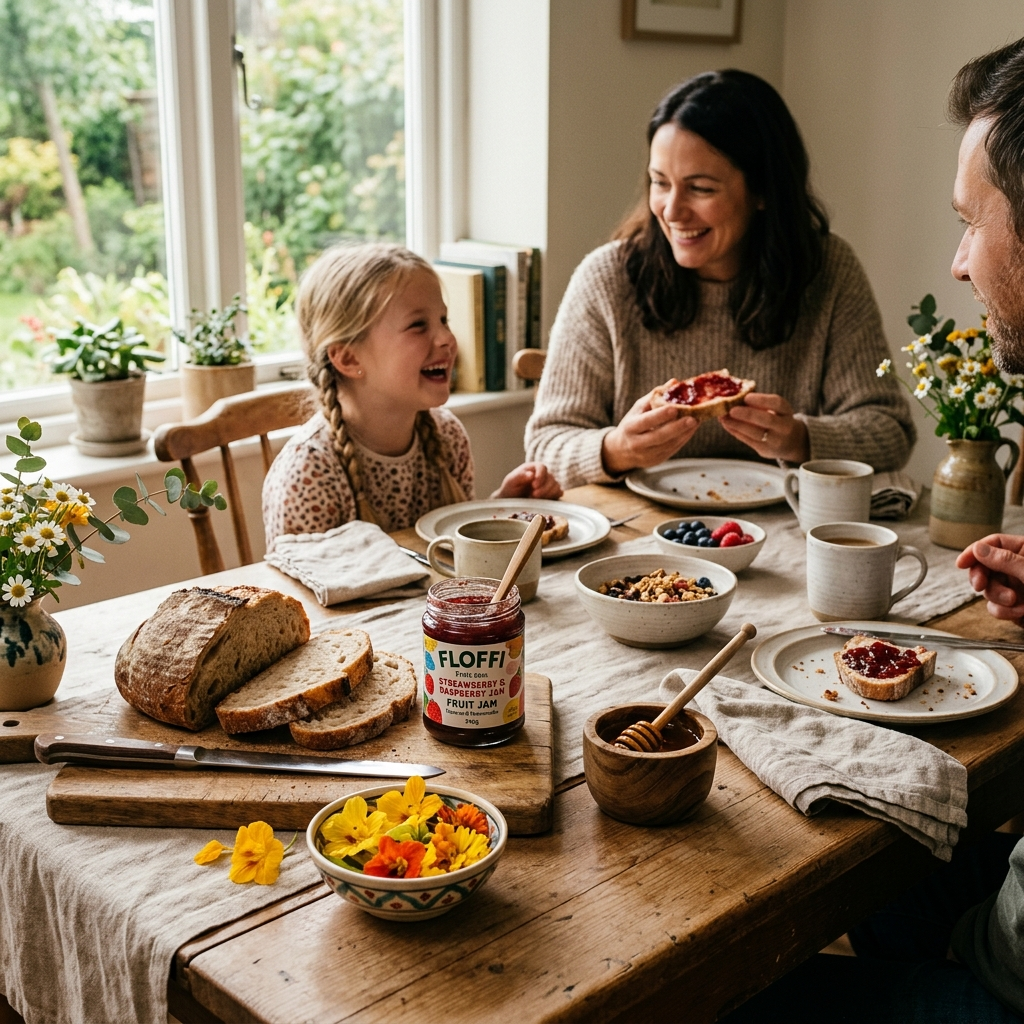
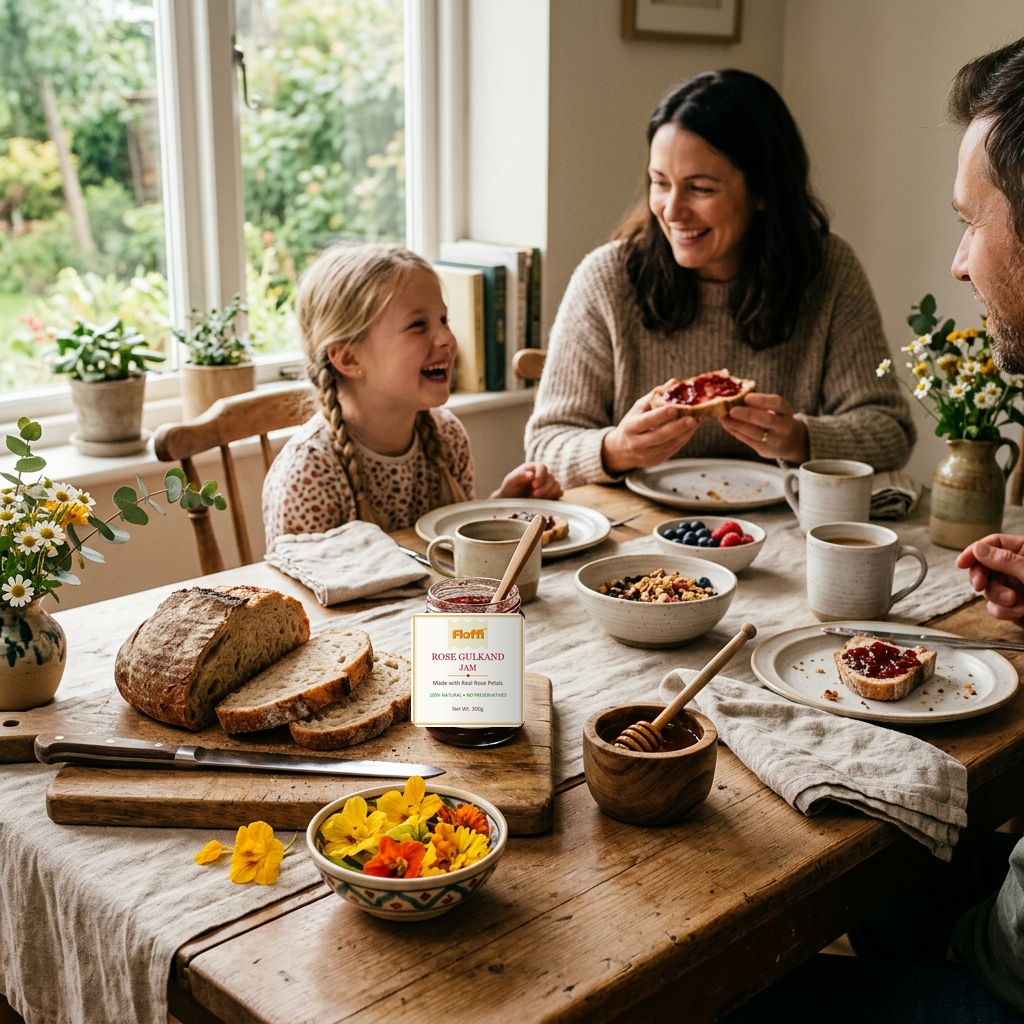
Remove mission and vision statements from About Us and update jar in background to original Floffi product

Changed region(s): [[0.375, 0.5938, 0.5312, 0.7188]]

diff --git a/src/components/OurStorySection.tsx b/src/components/OurStorySection.tsx
@@ -58,33 +58,9 @@ export default function OurStorySection({ onNavigate }: OurStorySectionProps) {
             <p style={{ color: '#555', fontSize: '1rem', lineHeight: '1.8', marginBottom: '20px', textAlign: 'left' }}>
               Our products are made using natural ingredients without artificial colors or artificial preservatives, delivering authentic taste with a fresh and wholesome experience. From breakfast spreads to snack pairings and everyday cooking, Flowfi products are designed to fit naturally into modern lifestyles.
             </p>
-            <p style={{ color: '#555', fontSize: '1rem', lineHeight: '1.8', marginBottom: '32px', textAlign: 'left' }}>
+            <p style={{ color: '#555', fontSize: '1rem', lineHeight: '1.8', marginBottom: '0px', textAlign: 'left' }}>
               With a focus economical consumers, floral-based foods a regular part of every kitchen through supermarkets, hypermarkets, and local stores.
             </p>
-
-            {/* Divider */}
-            <hr style={{ border: 'none', borderTop: '1px solid rgba(62,39,35,0.12)', margin: '36px 0' }} />
-
-            {/* Mission & Vision Grid */}
-            <div style={{ display: 'grid', gridTemplateColumns: 'repeat(auto-fit, minmax(320px, 1fr))', gap: '36px', textAlign: 'left' }}>
-              <div>
-                <h4 className="font-heading font-extrabold text-earthy-brown" style={{ fontSize: '1.35rem', marginBottom: '14px', textTransform: 'uppercase', letterSpacing: '0.05em', color: 'var(--hibiscus-red)' }}>
-                  Mission Statement
-                </h4>
-                <p style={{ color: '#555', fontSize: '0.95rem', lineHeight: '1.75' }}>
-                  To make natural floral-based foods a part of everyday life by creating healthy, flavorful, and affordable jams, spreads, sauces, and chutneys without artificial colors or preservatives for the next generation of consumers.
-                </p>
-              </div>
-
-              <div>
-                <h4 className="font-heading font-extrabold text-earthy-brown" style={{ fontSize: '1.35rem', marginBottom: '14px', textTransform: 'uppercase', letterSpacing: '0.05em', color: 'var(--hibiscus-red)' }}>
-                  Vision Statement
-                </h4>
-                <p style={{ color: '#555', fontSize: '0.95rem', lineHeight: '1.75' }}>
-                  To become a trusted household food brand by making floral-based products available across supermarkets, hypermarkets, and local stores, bringing natural and innovative flavors to every home.
-                </p>
-              </div>
-            </div>
           </motion.div>
         </div>
       </div>

diff --git a/src/components/StoryPage.tsx b/src/components/StoryPage.tsx
@@ -73,27 +73,6 @@ export default function StoryPage() {
                 With a focus economical consumers, floral-based foods a regular part of every kitchen through supermarkets, hypermarkets, and local stores.
               </p>
             </div>
-
-            {/* Mission & Vision Statements */}
-            <div className="grid grid-cols-1 md:grid-cols-2 gap-8 pt-8 border-t border-[rgba(62,39,35,0.1)] text-left">
-              <div className="p-6 bg-cream-dark rounded-2xl border border-[rgba(62,39,35,0.08)]">
-                <h3 className="font-heading font-bold text-lg text-hibiscus-red mb-3 uppercase tracking-wider" style={{ color: 'var(--hibiscus-red)' }}>
-                  Mission Statement
-                </h3>
-                <p className="text-sm text-earthy-light leading-relaxed">
-                  To make natural floral-based foods a part of everyday life by creating healthy, flavorful, and affordable jams, spreads, sauces, and chutneys without artificial colors or preservatives for the next generation of consumers.
-                </p>
-              </div>
-
-              <div className="p-6 bg-cream-dark rounded-2xl border border-[rgba(62,39,35,0.08)]">
-                <h3 className="font-heading font-bold text-lg text-hibiscus-red mb-3 uppercase tracking-wider" style={{ color: 'var(--hibiscus-red)' }}>
-                  Vision Statement
-                </h3>
-                <p className="text-sm text-earthy-light leading-relaxed">
-                  To become a trusted household food brand by making floral-based products available across supermarkets, hypermarkets, and local stores, bringing natural and innovative flavors to every home.
-                </p>
-              </div>
-            </div>
           </motion.div>
 
           <hr className="border-earthy-brown/10 mb-20" style={{ border: 'none', borderTop: '1px solid rgba(62,39,35,0.08)' }} />
